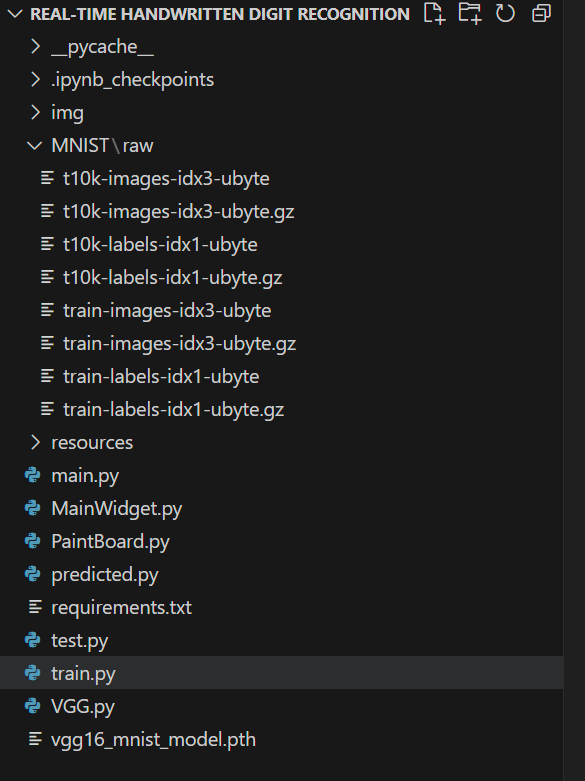
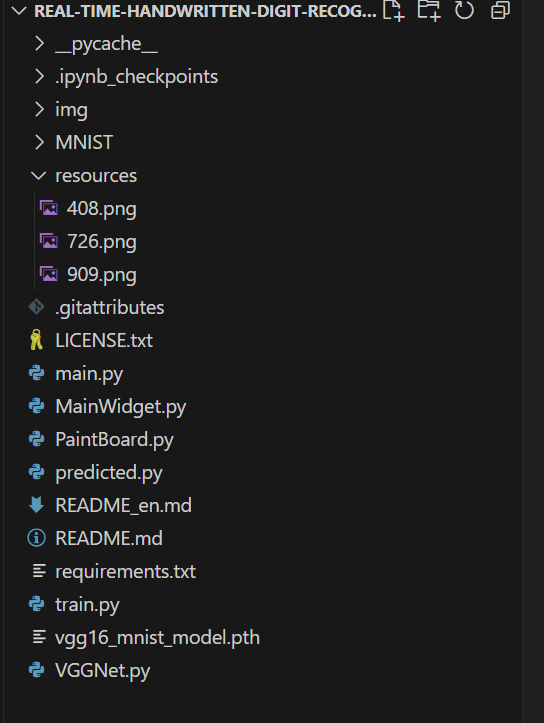
5.27

Changed region(s): [[0.0, 0.0, 0.9688, 0.9737]]

diff --git a/train.py b/train.py
@@ -11,7 +11,8 @@ import numpy as np # linear algebra
 import pandas as pd
 
 import time
-from VGG import VGG16,VGGBlock
+from VGGNet import VGG16,VGGBlock
+# from ResNet import *
 
 # pip install torch==1.13.1+cu116 torchvision==0.14.1+cu116 torchaudio==0.13.1 --extra-index-url https://download.pytorch.org/whl/cu116
 # conda install pytorch==1.13.1 torchvision==0.14.1 torchaudio==0.13.1 pytorch-cuda=11.6 -c pytorch -c nvidia
@@ -88,6 +89,7 @@ def train(loaders, optimizer, criterion, epochs=10, save_param=True, dataset="mn
         print("Interrupted")
     
     finally: # 绘制图表
+        plt.show()
         plt.title("Loss")
         for split in ["train", "test"]:
             plt.plot(history_loss[split], label=split)
@@ -104,7 +106,9 @@ def train(loaders, optimizer, criterion, epochs=10, save_param=True, dataset="mn
 
 # main
 model = VGG16((1,32,32), batch_norm=True)
-optimizer = optim.SGD(model.parameters(), lr=0.001) # 随机梯度下降（SGD）
+# optimizer = optim.SGD(model.parameters(), lr=0.001) # 随机梯度下降（SGD）
+params = [p for p in model.parameters() if p.requires_grad]
+optimizer = torch.optim.Adam(params, lr=0.001, weight_decay=5E-5)
 criterion = nn.CrossEntropyLoss() # 交叉熵损失函数
 
 
@@ -146,4 +150,4 @@ loaders = {"train": train_loader,
            "test": test_loader}
 
 
-train(loaders, optimizer, criterion, epochs=10)  
+train(loaders, optimizer, criterion, epochs=15)  

diff --git a/predicted.py b/predicted.py
@@ -5,7 +5,7 @@ from torchvision import transforms
 import torch.nn as nn
 import torch.nn.functional as F
 
-from VGG import VGG16,VGGBlock
+from VGGNet import VGG16,VGGBlock
 
 def pre():
   # 创建一个VGG16对象

diff --git a/README_en.md b/README_en.md
@@ -11,7 +11,8 @@ The program includes VGG16net training code, users can modify the training code 
 ## effect
 ![](resources/726.png)
 ![](resources/909.png)
-
+![](resources/632.png)
+![](resources/641.png)
 -----
 
 ## Mode of use
